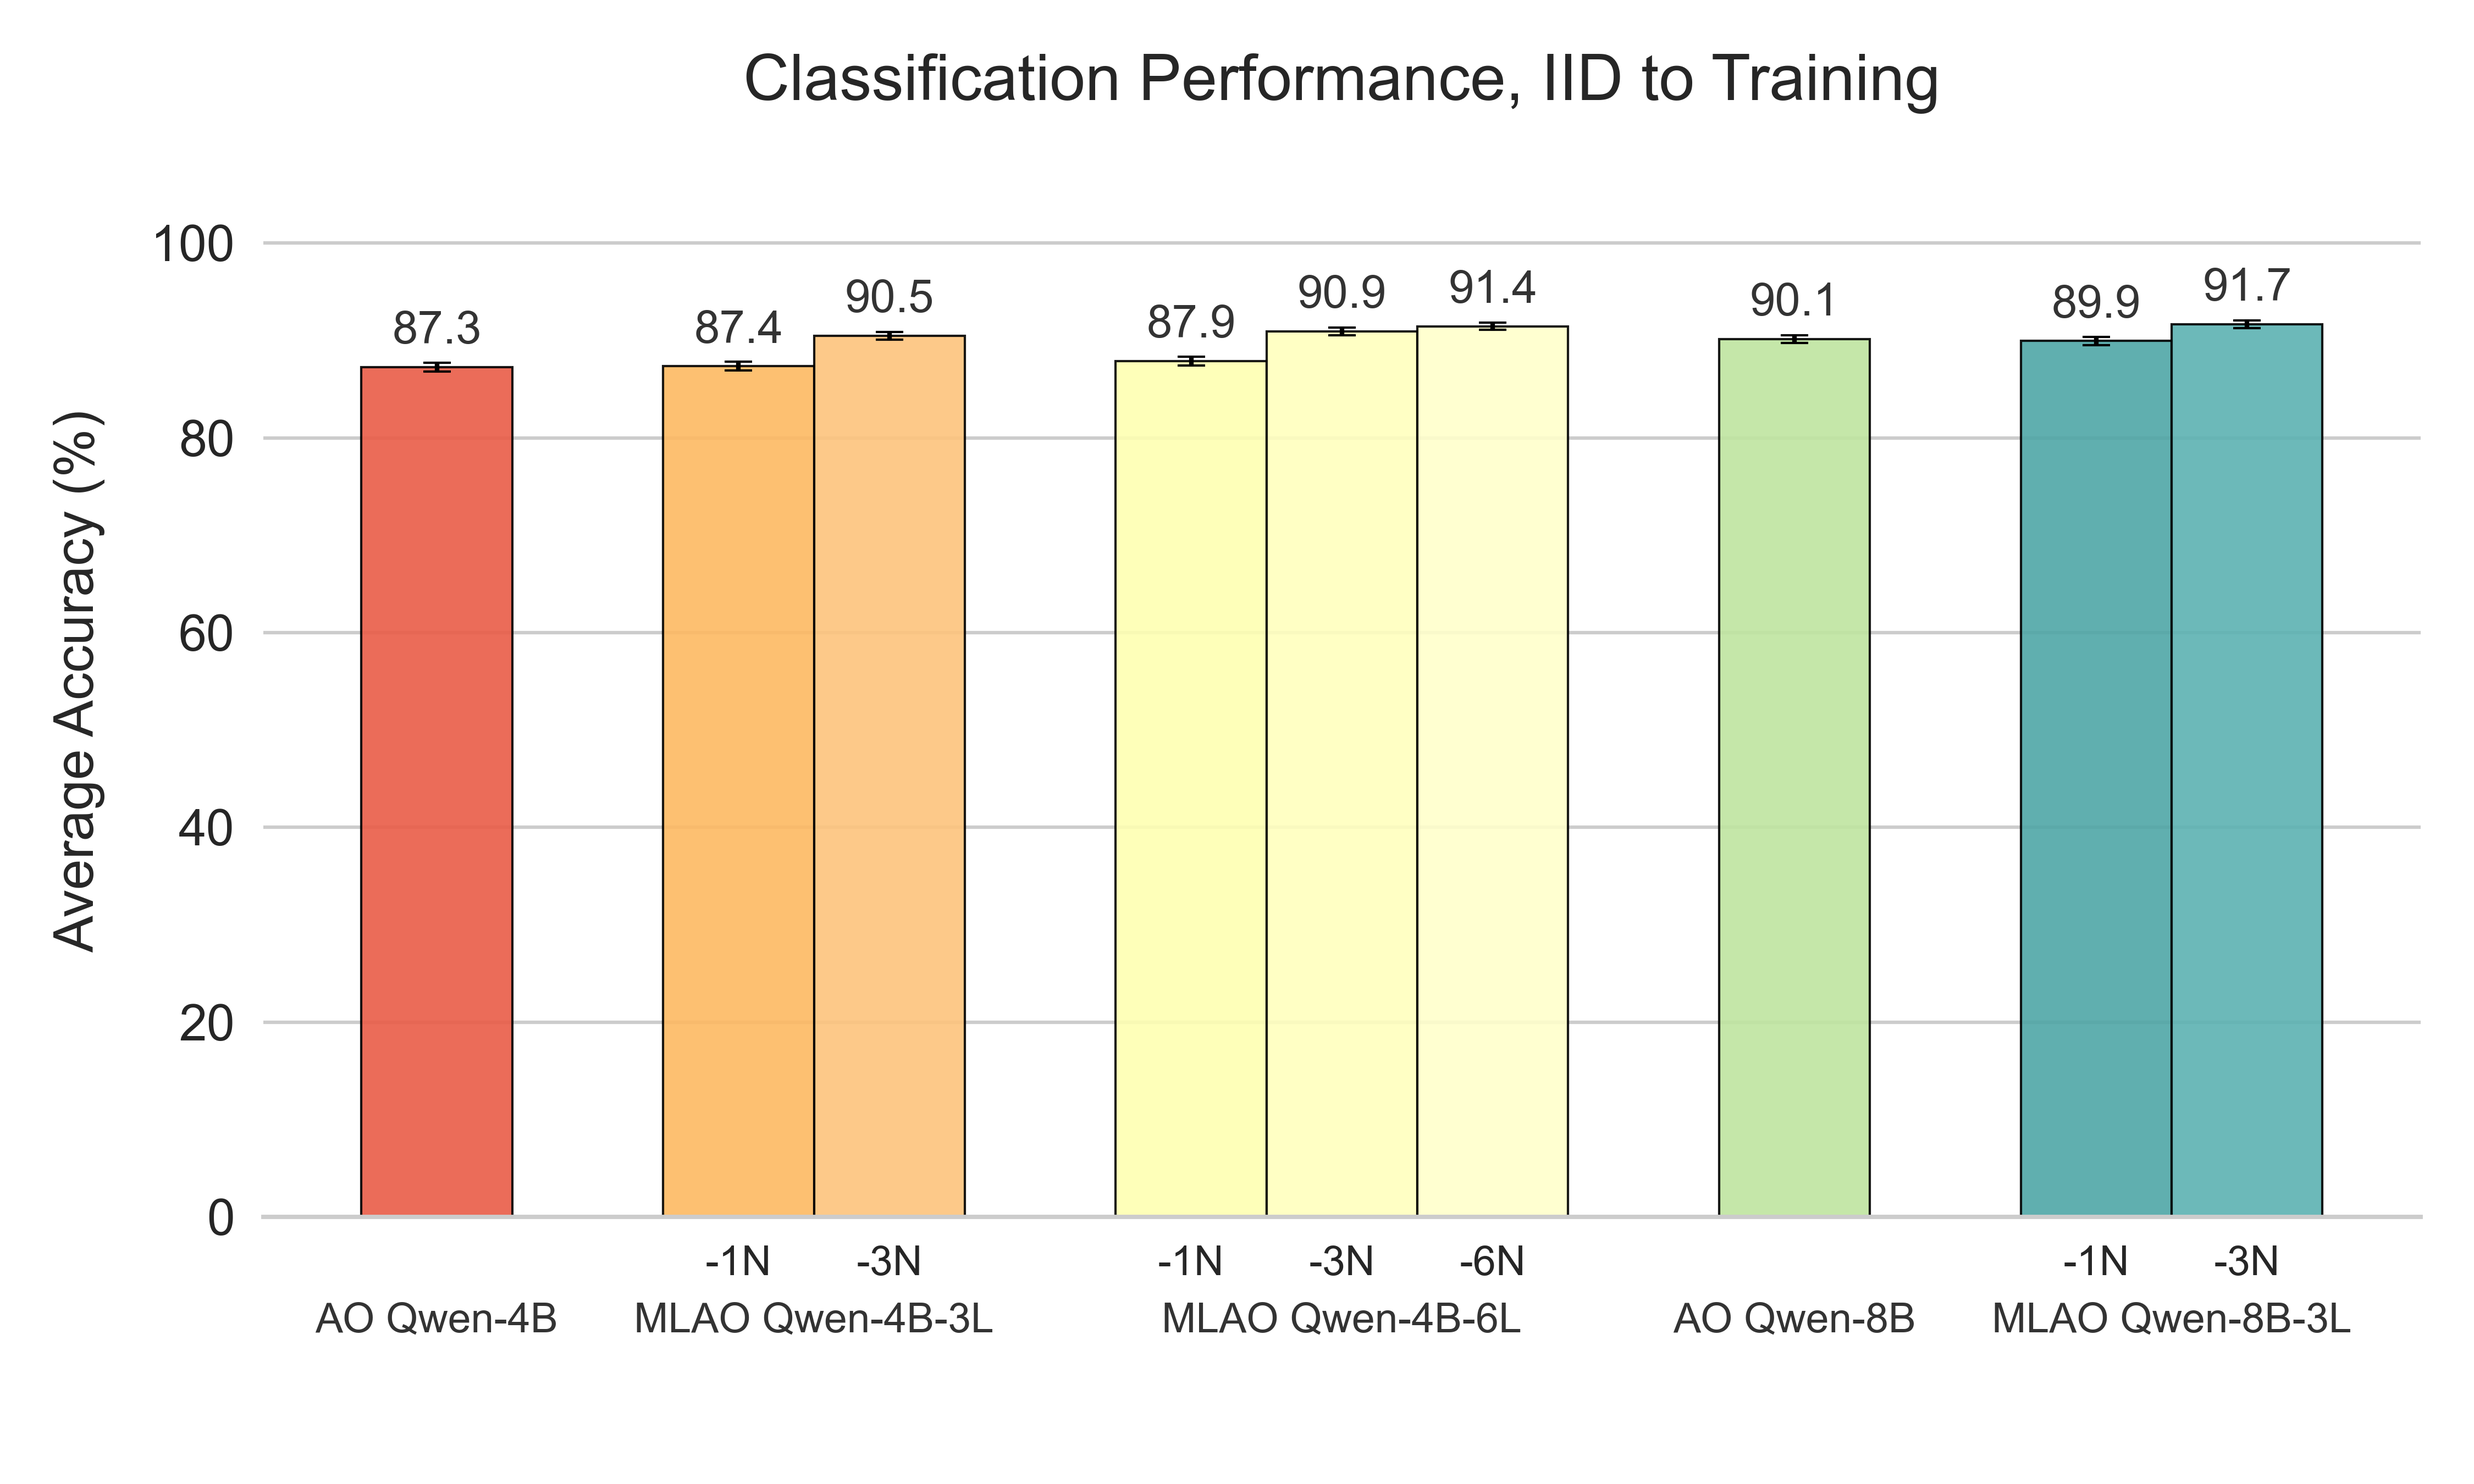
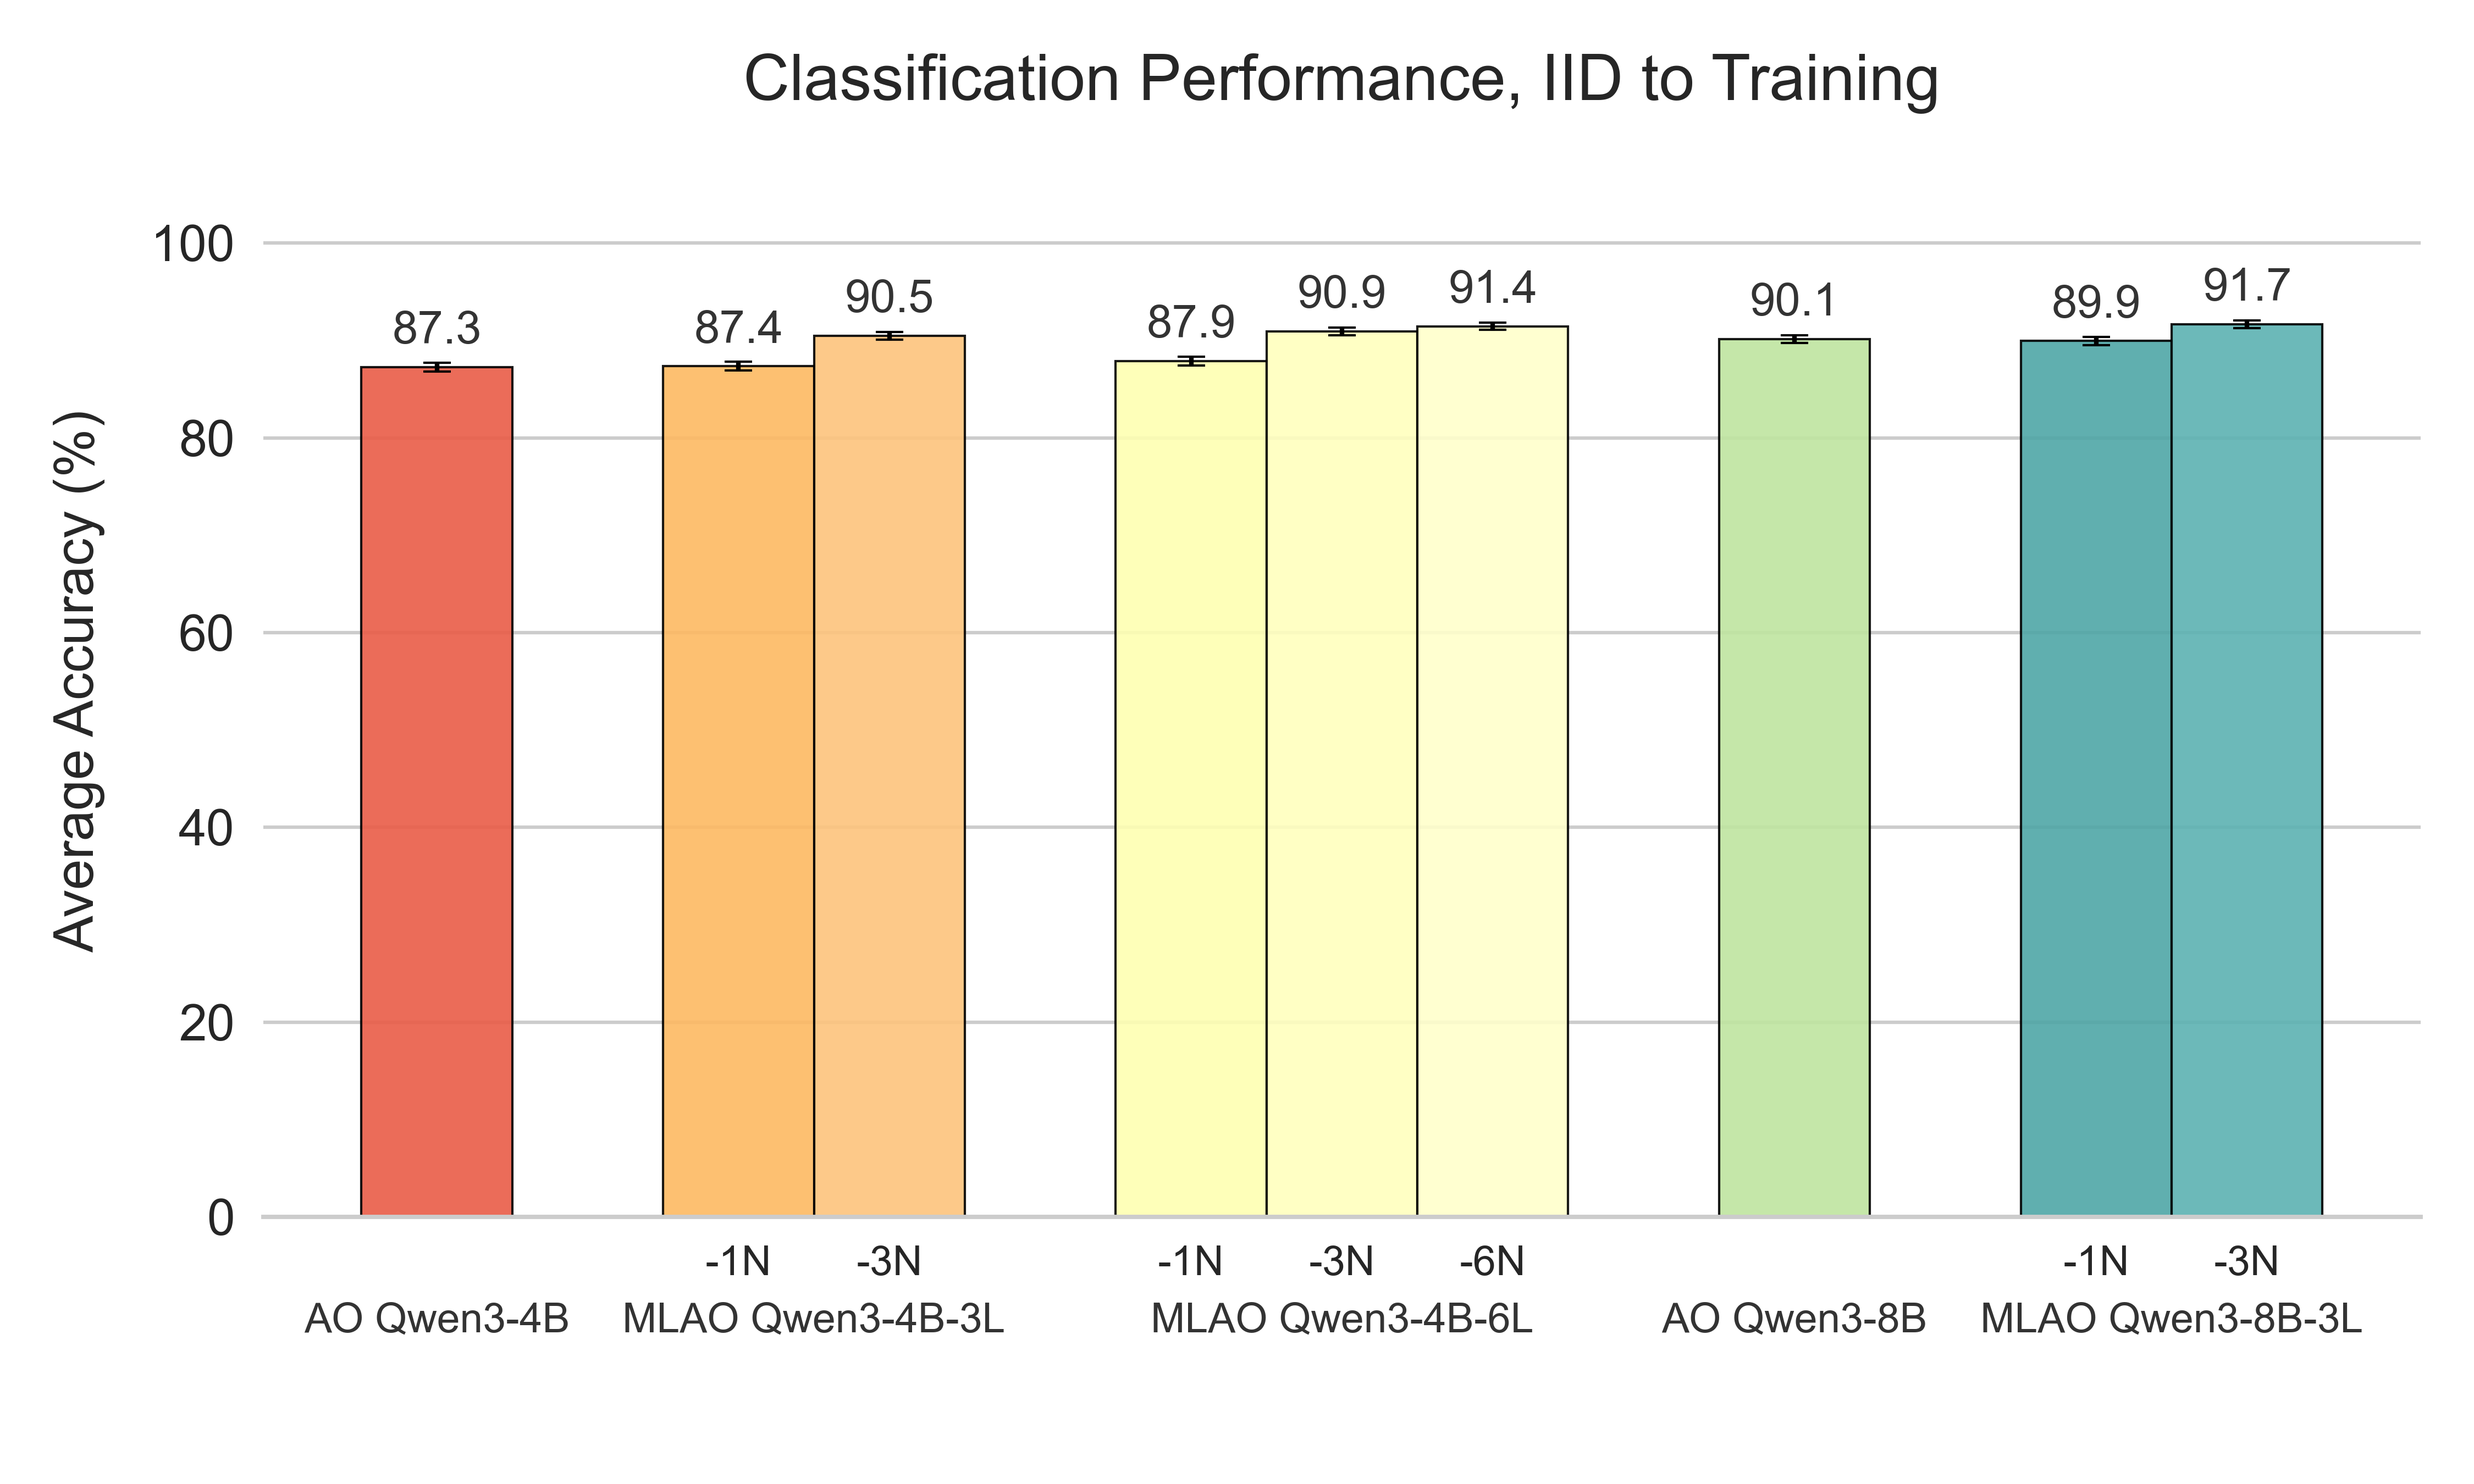
fixed Qwen3 model names

Changed region(s): [[0.6533, 0.8711, 0.9644, 0.9022], [0.1244, 0.8711, 0.4044, 0.9022], [0.4667, 0.8711, 0.6222, 0.9022]]

diff --git a/experiments/plotting/plot_classification_eval.py b/experiments/plotting/plot_classification_eval.py
@@ -48,17 +48,17 @@ IID_DATASETS = [
 # --- NAME MAPPING (Defines Order) ---
 NAME_MAPPING = {
     # 4B Models
-    "checkpoints_latentqa_cls_past_lens_Qwen3-4B": "AO Qwen-4B",
-    "MLAO-Qwen3-4B-3L-1N": "MLAO Qwen-4B-3L-1N",
-    "MLAO-Qwen3-4B-3L-3N": "MLAO Qwen-4B-3L-3N",
-    "MLAO-Qwen3-4B-6L-1N": "MLAO Qwen-4B-6L-1N",
-    "MLAO-Qwen3-4B-6L-3N": "MLAO Qwen-4B-6L-3N",
-    "MLAO-Qwen3-4B-6L-6N": "MLAO Qwen-4B-6L-6N",
+    "checkpoints_latentqa_cls_past_lens_Qwen3-4B": "AO Qwen3-4B",
+    "MLAO-Qwen3-4B-3L-1N": "MLAO Qwen3-4B-3L-1N",
+    "MLAO-Qwen3-4B-3L-3N": "MLAO Qwen3-4B-3L-3N",
+    "MLAO-Qwen3-4B-6L-1N": "MLAO Qwen3-4B-6L-1N",
+    "MLAO-Qwen3-4B-6L-3N": "MLAO Qwen3-4B-6L-3N",
+    "MLAO-Qwen3-4B-6L-6N": "MLAO Qwen3-4B-6L-6N",
 
     # 8B Models
-    "checkpoints_latentqa_cls_past_lens_addition_Qwen3-8B": "AO Qwen-8B",
-    "MLAO-Qwen3-8B-3L-1N": "MLAO Qwen-8B-3L-1N",
-    "MLAO-Qwen3-8B-3L-3N": "MLAO Qwen-8B-3L-3N",
+    "checkpoints_latentqa_cls_past_lens_addition_Qwen3-8B": "AO Qwen3-8B",
+    "MLAO-Qwen3-8B-3L-1N": "MLAO Qwen3-8B-3L-1N",
+    "MLAO-Qwen3-8B-3L-3N": "MLAO Qwen3-8B-3L-3N",
 }
 
 # ---------------------------------------------------------
